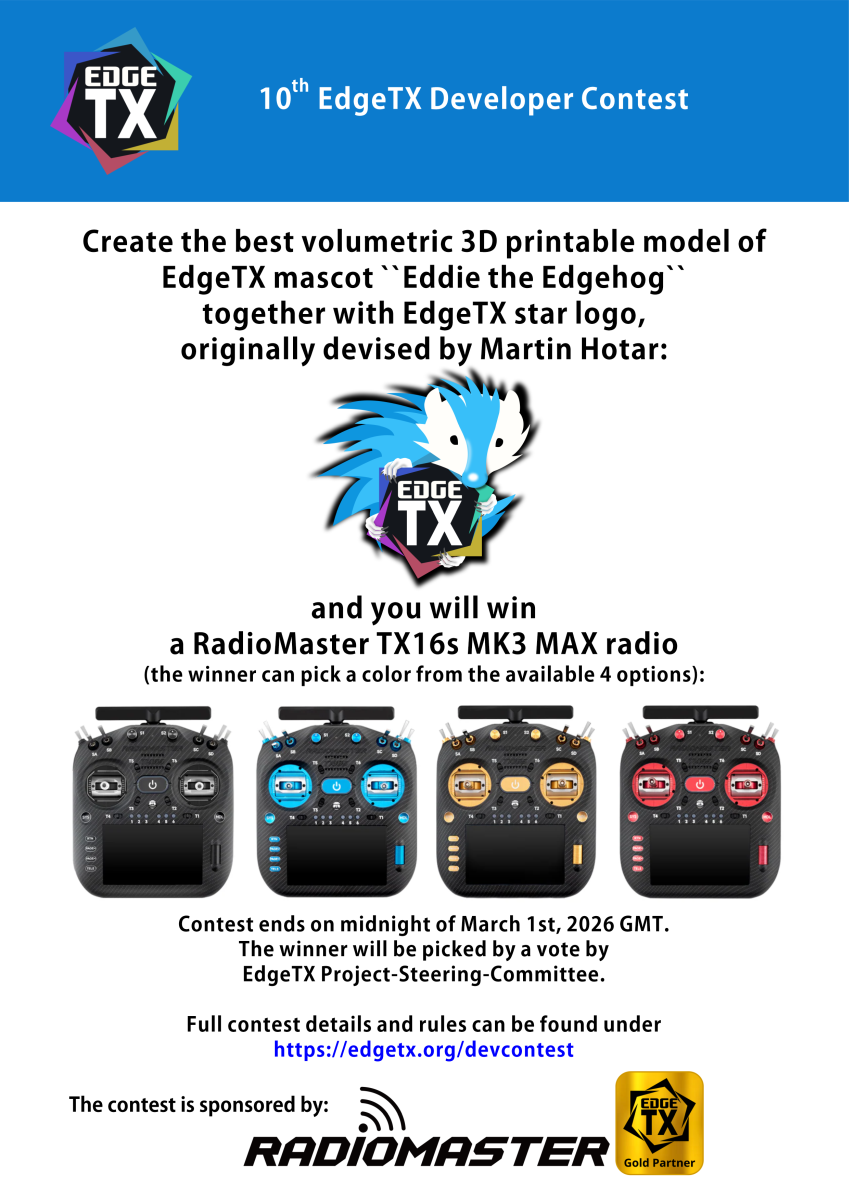
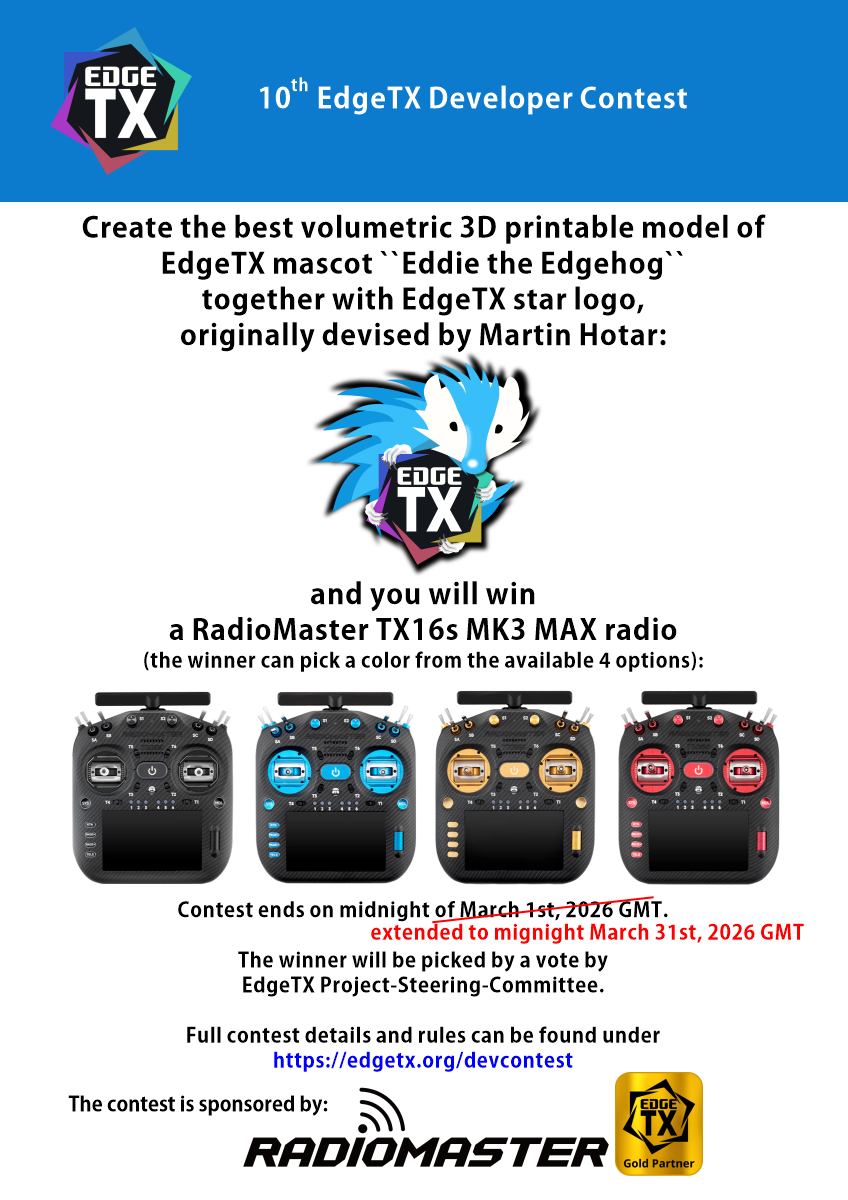
10th developer contest extended

diff --git a/docs/dc10_3deddie.md b/docs/dc10_3deddie.md
@@ -24,7 +24,7 @@ Bonus points will be given to the design that is divided into separately 3D prin
 
 **Rules**
 
-The contest ends on midnight of March 1st, 2026 GMT, after which the winner will be picked by a vote of EdgeTX Project-Steering-Committee. Members of the <a href="https://edgetx.org/bylaws/#edgetx-development-team">EdgeTX development team</a> cannot participate in the competition. To be eligible to win the radio, an address of a 18+ years old person is required. 
+The contest ends on <del>midnight of March 1st, 2026 GMT</del> <span style="color:red;font-weight:bold;">extended to midnight of March 31st, 2026 GMT</span>, after which the winner will be picked by a vote of EdgeTX Project-Steering-Committee. Members of the <a href="https://edgetx.org/bylaws/#edgetx-development-team">EdgeTX development team</a> cannot participate in the competition. To be eligible to win the radio, an address of a 18+ years old person is required. 
 
 The EdgeTX PSC reserves the right not to accept submissions that do not adhere to the devised task goals and / or may negatively impact EdgeTX. The decision of the winner by EdgeTX PSC is final and legal recourse is excluded.
 

diff --git a/docs/index.md b/docs/index.md
@@ -20,7 +20,7 @@ For more information about EdgeTX, check out the [About EdgeTX page](https://edg
 
 **3D printable model of EdgeTX mascot *Eddie the Edgehog* Developer Contest**
 
-Create the best volumetric 3D printable model of EdgeTX mascot *Eddie the Edgehog* together with EdgeTX star logo and win a RadioMaster TX16s MK3 MAX radio. The contest ends on midnight of March 1st, 2026 GMT. Full contest details and rules can be found here: [https://edgetx.org/dc10_3deddie](https://edgetx.org/dc10_3deddie)
+Create the best volumetric 3D printable model of EdgeTX mascot *Eddie the Edgehog* together with EdgeTX star logo and win a RadioMaster TX16s MK3 MAX radio. The contest ends on <del>midnight of March 1st, 2026 GMT</del> <span style="color:red;font-weight:bold;">extended to midnight of March 31st, 2026 GMT</span>. Full contest details and rules can be found here: [https://edgetx.org/dc10_3deddie](https://edgetx.org/dc10_3deddie)
 
 ---
 

diff --git a/docs/news.md b/docs/news.md
@@ -8,7 +8,7 @@ hide:
 
 **3D printable model of EdgeTX mascot *Eddie the Edgehog* Developer Contest**
 
-Create the best volumetric 3D printable model of EdgeTX mascot *Eddie the Edgehog* together with EdgeTX star logo and win a RadioMaster TX16s MK3 MAX radio. The contest ends on midnight of March 1st, 2026 GMT. Full contest details and rules can be found here: [https://edgetx.org/dc10_3deddie](https://edgetx.org/dc10_3deddie)
+Create the best volumetric 3D printable model of EdgeTX mascot *Eddie the Edgehog* together with EdgeTX star logo and win a RadioMaster TX16s MK3 MAX radio. The contest ends on <del>midnight of March 1st, 2026 GMT</del> <span style="color:red;font-weight:bold;">extended to midnight of March 31st, 2026 GMT</span>. Full contest details and rules can be found here: [https://edgetx.org/dc10_3deddie](https://edgetx.org/dc10_3deddie)
 
 ---
 

diff --git a/docs/devcontest.md b/docs/devcontest.md
@@ -8,7 +8,7 @@ From time to time, the EdgeTX team organizes developer contests to provide an in
 
 ## **Currently active developer contests**
 
-* [10th - 3D shaped EdgeTX mascot "Eddie the Edgehog"](https://edgetx.org/dc10_3deddie). The contest runs until March 1st, 2026 GMT.
+* [10th - 3D shaped EdgeTX mascot "Eddie the Edgehog"](https://edgetx.org/dc10_3deddie). The contest runs until midnight of March 31st, 2026 GMT.
 
 * [6th - EdgeTX Buddy backup and restore](https://edgetx.org/dc6_buddybackup). The contests ends after first successful submission, or on midnight of March 1st, 2026 GMT.
 
